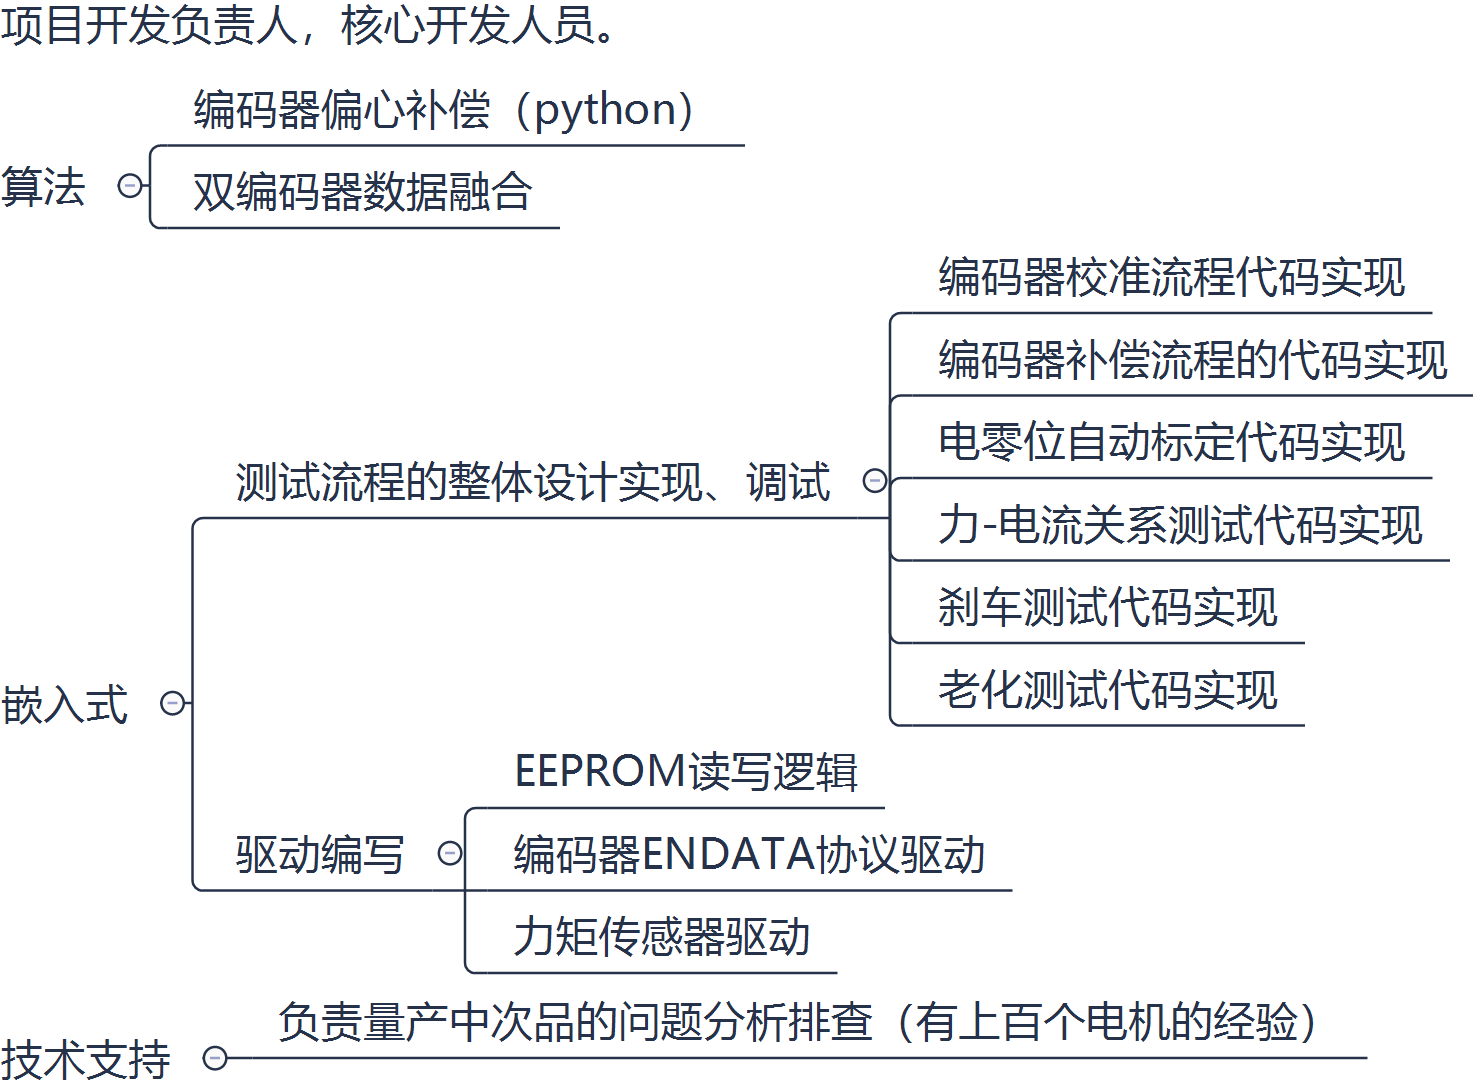
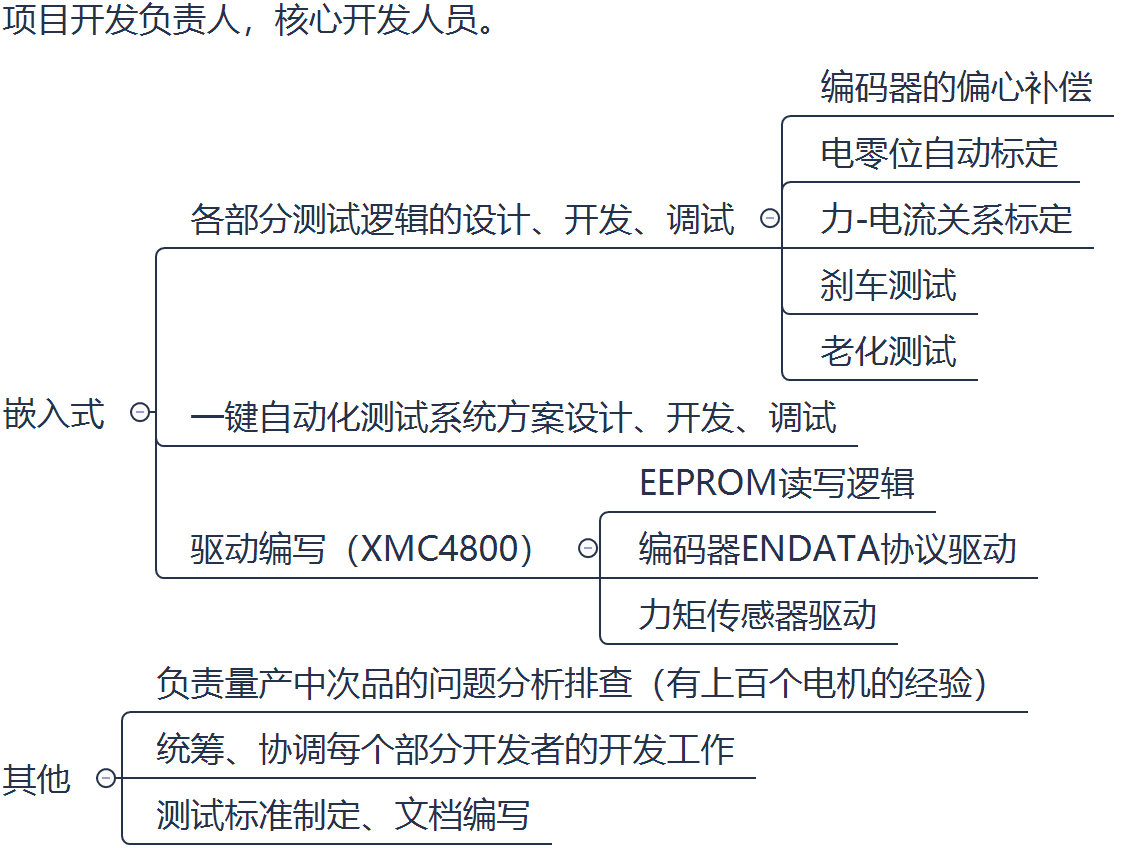
#终版4

diff --git a/index.html b/index.html
@@ -76,7 +76,9 @@
           <h5><span class="badge badge-secondary">光电信息科学与工程</span></h5>
         </div>
       </div>
-      <p></p>
+        <ul>
+        <li>担任2013届电子协会会长</li>
+        </ul>
       <hr>
     </div>
     <div class="col-md-6 col-sm-12">
@@ -100,6 +102,12 @@
           <h5><span class="badge badge-secondary">自动化系统主管</span></h5>
         </div>
       </div>
+        <h6>
+        <ul>
+        <li>负责 四轴与六轴工业机械臂 及 PMSM 的 控制算法仿真（Simulink）、嵌入式实现、调试</li>
+        <li>负责 电机自动化测试平台 的 测试流程设计、嵌入式开发、次品电机的问题排查</li>
+        </ul>
+            </h6>
       <!--
       <div class="row">
         <div class="col-6">
@@ -288,13 +296,16 @@
           <h4><strong>一、四轴机械臂插件机控制算法开发</strong></h4>
         </div>
         <div class="col-5">
-          <h4 class="text-right">2021.6.24</h4>
+          <h4 class="text-right">2021.6-2022.8</h4>
         </div>
       </div>
       <div class="row">
         <div class="col-6">
-          <h6>&emsp;&emsp;开发新的机械臂控制算法，并解决机械臂低速抖动、谐振
-            等问题，提高机械臂的动态响应，及降低位置跟随收敛时间 </h6>
+         <h5><strong>背景：</strong></h5>
+          <h6>&emsp;&emsp;公司自研直驱机械臂使用的是直驱电机，精度高、寿命长、噪声低。但由于没有减速器，关节阻尼小、惯量比小、受干扰极易发生谐振，加上电机本身扭矩波动大，所以控制难度比带减速器机械臂要大很多（本人也控过带减速器的四轴和六轴机械臂）。 </h6>
+            
+         <h5><strong>目标：</strong></h5>
+          <h6>&emsp;&emsp;开发新的机械臂控制算法，并解决机械臂低速抖动、谐振等问题，提高机械臂的动态响应，及降低位置跟随收敛时间</h6>
         </div>
         <div class="col-6">
           <h5><strong>负责部分：</strong></h5>
@@ -304,7 +315,7 @@
       <div class="row">
         <div class="col-12">
           <h5><strong>成果：</strong></h5>
-          <h6>&emsp;&emsp;解决了机械臂在工作空间内的谐振等核心问题，提高了机械臂的稳定性与收敛速度。使得插件机生产线提高约20%工作效率</h6>
+          <h6>&emsp;&emsp;解决了机械臂的低速抖动、谐振等核心问题，提高了机械臂的稳定性与收敛速度。并且使得生产线提高了约20%工作效率。</h6>
         </div>
       </div>
       <hr>
@@ -328,13 +339,15 @@
           <h4><strong>二、直驱机械臂控制（四轴与六轴）</strong></h4>
         </div>
         <div class="col-5">
-          <h4 class="text-right">2019.1.10</h4>
+          <h4 class="text-right">2019.1-2019.5</h4>
         </div>
       </div>
       <div class="row">
         <div class="col-6">
-          <h6>&emsp;&emsp;为公司首台直驱六轴机械臂完成驱动电路搭建、底层驱动
-            编写、控制算法、轨迹算法 </h6>
+         <h5><strong>背景：</strong></h5>
+          <h6>&emsp;&emsp;公司生产了首台直驱六轴机械臂后，有了量产的计划，因此找来资本希望能够入股。但是彼时机械臂连驱动器和软件代码都尚未开发，无法为投资人进行机械臂的功能演示。 </h6>
+         <h5><strong>目标：</strong></h5>
+          <h6>&emsp;&emsp;两周内完成直驱六轴机械臂的驱动电路搭建、底层驱动编写、系统软件编写、控制算法的实现、轨迹算法的实现，并且向投资人展示机械臂的运动。 </h6>
         </div>
         <div class="col-6">
           <h5><strong>负责部分：</strong></h5>
@@ -344,7 +357,7 @@
       <div class="row">
         <div class="col-12">
           <h5><strong>成果：</strong></h5>
-          <h6>&emsp;&emsp;为公司首台自研机械臂完成了嵌入式的搭建、驱动编写、控制算法、轨迹算法等工作，使公司成功会见重要投资人</h6>
+          <h6>&emsp;&emsp;最终完成所有开发，向投资人成功展示，为公司提高了融资成功率。在此基础上，后续又对四轴与六轴机械臂的软件和算法进行了更深入的开发。</h6>
         </div>
       </div>
       <hr>
@@ -376,13 +389,15 @@
           <h4><strong>三、电机测试平台</strong></h4>
         </div>
         <div class="col-5">
-          <h4 class="text-right">2019.8.15</h4>
+          <h4 class="text-right">2019.8-2021.5</h4>
         </div>
       </div>
       <div class="row">
         <div class="col-6">
-          <h6>&emsp;&emsp;开发用于测试公司自研旋转电机功能可靠性、性能、稳定
-            性的自动化测试流水线。 </h6>
+         <h5><strong>背景：</strong></h5>
+          <h6>&emsp;&emsp;公司首批自研高扭矩电机性能验证通过，准备量产，亟需能够用于测试大量量产电机性能和可靠性的测试平台。 </h6>
+         <h5><strong>目标：</strong></h5>
+          <h6>&emsp;&emsp;设计并开发用于测试公司自研高扭矩电机功能可靠性、性能、稳定性的一键自动化测试平台。要求能够满足电机的编码器校准、编码器偏心补偿、电零位自动标定、力-电流曲线标定、刹车可靠性测试、老化测试等多项要求，并且要支持一键测试。 </h6>
         </div>
         <div class="col-6">
           <h5><strong>负责部分：</strong></h5>
@@ -392,7 +407,7 @@
       <div class="row">
         <div class="col-12">
           <h5><strong>成果：</strong></h5>
-          <h6>&emsp;&emsp;解决了量产电机的自动化测试问题，从测一个电机需要2周的人为干预流水线，发展成一天能出近5个电机的自动化流水线。</h6>
+          <h6>&emsp;&emsp;测试平台共量产四轴、六轴机械臂300余台。从测一个电机需要2周的人为干预流水线，发展成一天能出近5个电机的一键自动化流水线。</h6>
         </div>
       </div>
       <hr>
@@ -424,12 +439,15 @@
           <h4><strong>四、基于六轴机械臂的核酸检测工作站</strong></h4>
         </div>
         <div class="col-5">
-          <h4 class="text-right">2022.5.8</h4>
+          <h4 class="text-right">2022.5-2022.8</h4>
         </div>
       </div>
       <div class="row">
         <div class="col-6">
-          <h6>&emsp;&emsp;开发能够取代医护人员的一站式自动化核酸检测工作站 </h6>
+         <h5><strong>背景：</strong></h5>
+          <h6>&emsp;&emsp;在疫情的大背景下，对核酸检测的需求越来越大。现今核酸检测从采样到检测等流程比较繁琐，而且需要消耗大量人力。 </h6>
+         <h5><strong>目标：</strong></h5>
+          <h6>&emsp;&emsp;开发能够取代医护人员的一站式自动化核酸检测工作站。利用机械臂完成咽拭子采样，并在工作站上完成检测、出结果。实现无人干预的高效核酸检测流程。 </h6>
         </div>
         <div class="col-6">
           <h5><strong>负责部分：</strong></h5>
@@ -439,7 +457,7 @@
       <div class="row">
         <div class="col-12">
           <h5><strong>成果：</strong></h5>
-          <h6>&emsp;&emsp;最终实现了机械臂的末端力控。</h6>
+          <h6>&emsp;&emsp;最终在ROS+gazebo的仿真环境下实现了机械臂末端力控效果。</h6>
         </div>
       </div>
       <hr>
